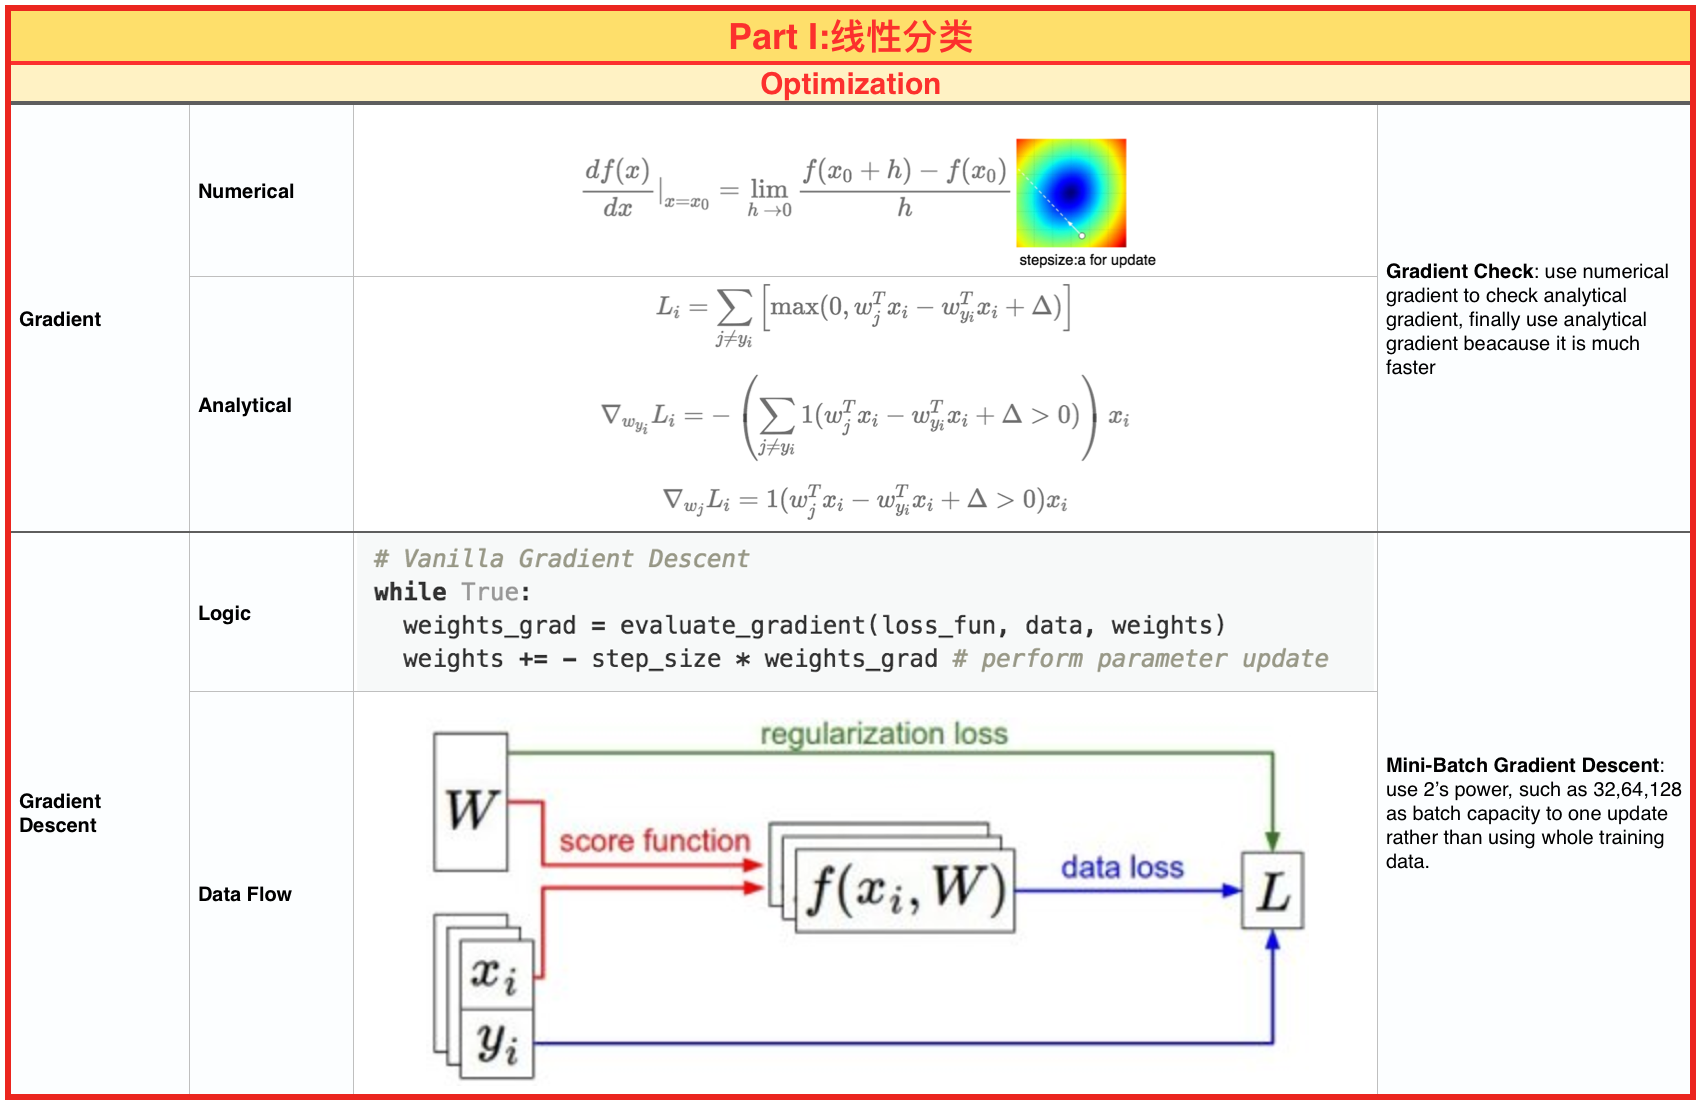
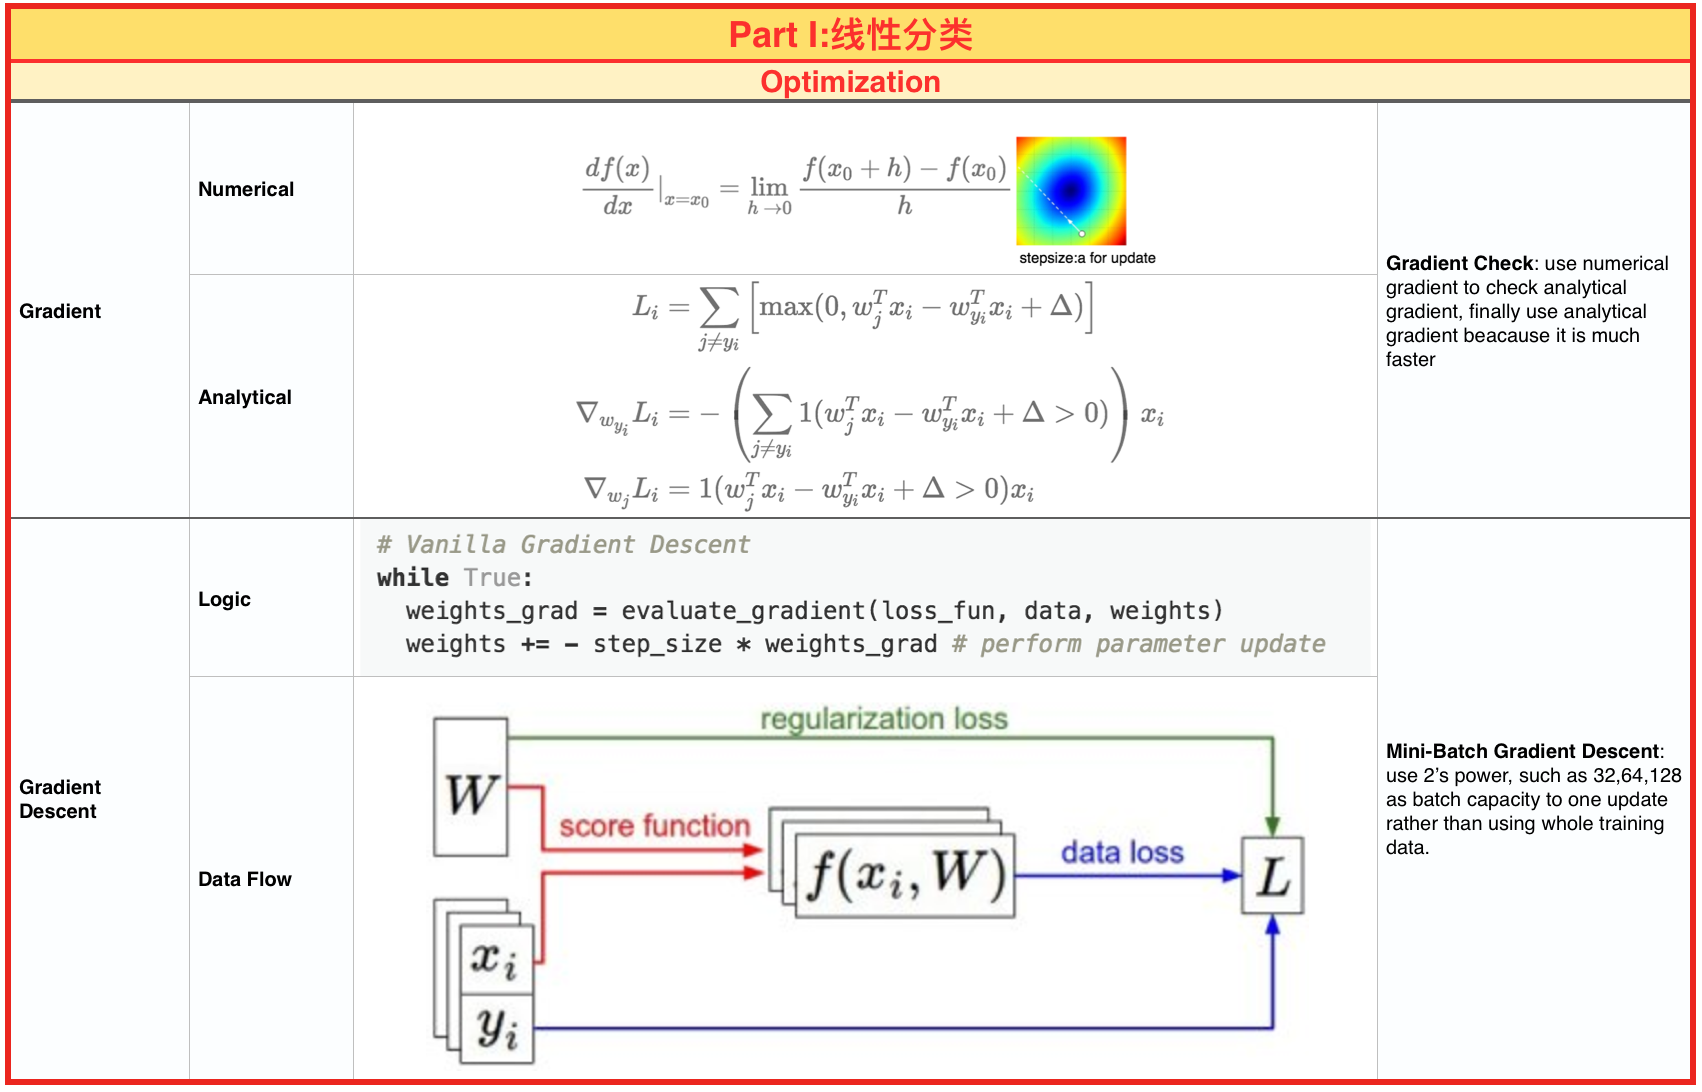
2015-06-04-CNN for Visual Recognition Part I：线性分类(四)：反向传播 finished

diff --git a/_posts/-07 Machine Learning/Neural Network/2015-06-04-CNN for Visual Recognition Part I：线性分类(四)：反向传播.md b/_posts/-07 Machine Learning/Neural Network/2015-06-04-CNN for Visual Recognition Part I：线性分类(四)：反向传播.md
@@ -18,62 +18,134 @@ shortinfo: 机器学习(Machine Learning)是通过非显性编程让计算机获
 ---
 {:.hr-short-left}
 
-## 1 Image Classification Introduction ##
+## 1 Backpropagation ##
 
-> **Image Classification**：给出1幅图片，在固定的标签(Label)中给出图片中对应物体的概率分布。这个任务定义看起来简单，实现起来却不容易。而且很多Computer Vision task最后都可化约为**Image Classification**问题。
+前文我们介绍了单个梯度的计算方法，本文在这基础上，介绍如何迭代使用链式原则来计算表达式的梯度，即**反向传播(Backpropagation)**。这对于我们理解，开发，设计和调试**Neural Networks**至关重要。
 
-**Image Classification**有如下几个主要难点：
+本文要探讨的主要问题如下。
 
-1. **视角变化(Viewpoint variation)**
+> 反向传播主要问题：给定某个函数$f(x)$，其中$x$是输入向量，我们如何计算$f$对$x$的梯度，即$\triangledown f(x)$。
 
-2. **大小变化(Scale variation)**
+该问题在神经网络下的应用是$f$对应loss function，$x$对应training set中的data $(x_i,y_i), i=1 \ldots N$，权重$W$和偏置$b$。由于training set中的data是固定的，因此我们一般只需要计算$W$和$b$的梯度来更新它们的值来减少loss。
 
-3. **变形(Deformation)**
+### 1.1 Introduction 
 
-4. **遮盖(Occlusion)**
+#### 1.1.1 Simple Interpreting the Gradient ###
 
-5. **光照变化(Illumination Conditions)**
+一些简单的梯度我们总结如下。
 
-6. **背景杂波(Background Clutter)**
+$$ \begin{align} 
+f(x,y) = x y \hspace{0.5in} & \rightarrow \hspace{0.5in} \frac{\partial f}{\partial x} = y \hspace{0.5in} \frac{\partial f}{\partial y} = x \\
 
-7. **类内变化(Intra-class Variation)**
+f(x,y) = x + y \hspace{0.5in} & \rightarrow \hspace{0.5in} \frac{\partial f}{\partial x} = 1 \hspace{0.5in} \frac{\partial f}{\partial y} = 1 \\
+
+f(x,y) = \max(x, y) \hspace{0.5in} & \rightarrow \hspace{0.5in} \frac{\partial f}{\partial x} = \mathbb{1}(x >= y) \hspace{0.5in} \frac{\partial f}{\partial y} = \mathbb{1}(y >= x) 
+
+\end{align} $$
+
+
+#### 1.1.2 Compound Expression, Chain Rule, Backpropagation ###
+
+复合表达式的梯度遵循链式原则。
+
+$$\begin{align}  
+f(x,y) = （x + y） \times z \hspace{0.5in} & \rightarrow \hspace{0.5in} \frac{\partial f}{\partial x} = \frac{\partial f}{\partial (x + y)} \times \frac{\partial (x + y)}{\partial x} = z \times 1 = z \\
+                                                                     & \rightarrow \hspace{0.5in} \frac{\partial f}{\partial y} = \frac{\partial f}{\partial (x + y)} \times \frac{\partial (x + y)}{\partial y} = z \times 1 = z \\
+                                                                     & \rightarrow \hspace{0.5in} \frac{\partial f}{\partial z} =  x + y \\
+\end{align} $$
 
 {: .img_middle_lg}
-![Image Classification Challenges](/assets/images/posts/07_Machine Learning/Convolutional Neural Network/2015-06-01-CNN for Visual Recognition Part I：入门(一)：图片分类/Image Classification Challenges.jpeg)
+![pixelspace](/assets/images/posts/07_Machine Learning/Convolutional Neural Network/2015-06-04-CNN for Visual Recognition Part I：线性分类(四)：反向传播/Chain Rule.png)
 
+### 1.2 Intuition ###
 
+> Backgroupagation is an elegant local process. The basic unit is gate. During forward pass, each gate's gradient, $\triangledown \frac {G_{out_i}}{G_{in_i}}$ and value ${G_{out_i}}$ is computed with knwon ${G_{in_i}}$. During backward pass, the previous computed gradient is chained by multiplication to calculate the final output's gradient on initial input, $\triangledown \frac {G_{out_N}}{G_{in_0}}$.
 
-### 1.1 Nearest Neighbor Classifier ###
+### 1.3 Best Practice###
 
-#### 1.1.1 k-Nearest Neighbor ####
+#### 1.3.1 Modularity: Sigmoid Example ####
 
-### 1.2 Train/Val/Test Split ###
+我们可以将多个gate模块化成1个gate，这里用1个**Sigmoid函数**举例。
 
-### 1.3 Pros/Cons of Nearest Neighbor ###
+{: .img_middle_lg}
+![pixelspace](/assets/images/posts/07_Machine Learning/Convolutional Neural Network/2015-06-04-CNN for Visual Recognition Part I：线性分类(四)：反向传播/Modular Gate.png)
+
+#### 1.3.2 Staged Computation ####
+
+下面这个形式只是用于练习利用中间值(Staged Value)来进行backpropagation。中间值使得我们的计算大大简化，而没有必要算出每一个微小gate的gradient。
+
+$$f(x,y) = \frac{x + \sigma(y)}{\sigma(x) + (x+y)^2}$$
+
+{% highlight py linenos %}
+x = 3 # example values
+y = -4
+
+# forward pass
+sigy = 1.0 / (1 + math.exp(-y)) # sigmoid in numerator   #(1)
+num = x + sigy # numerator                               #(2)
+sigx = 1.0 / (1 + math.exp(-x)) # sigmoid in denominator #(3)
+xpy = x + y                                              #(4)
+xpysqr = xpy**2                                          #(5)
+den = sigx + xpysqr # denominator                        #(6)
+invden = 1.0 / den                                       #(7)
+f = num * invden # done!                                 #(8)
+
+# backprop f = num * invden
+dnum = invden # gradient on numerator                             #(8)
+dinvden = num                                                     #(8)
+# backprop invden = 1.0 / den 
+dden = (-1.0 / (den**2)) * dinvden                                #(7)
+# backprop den = sigx + xpysqr
+dsigx = (1) * dden                                                #(6)
+dxpysqr = (1) * dden                                              #(6)
+# backprop xpysqr = xpy**2
+dxpy = (2 * xpy) * dxpysqr                                        #(5)
+# backprop xpy = x + y
+dx = (1) * dxpy                                                   #(4)
+dy = (1) * dxpy                                                   #(4)
+# backprop sigx = 1.0 / (1 + math.exp(-x))
+dx += ((1 - sigx) * sigx) * dsigx # Notice += !!                  #(3)
+# backprop num = x + sigy
+dx += (1) * dnum                                                  #(2)
+#This follows the multivariable chain rule in Calculus, which states that if a variable branches out to different parts of the circuit, then the gradients that flow back to it will add
+
+dsigy = (1) * dnum                                                #(2)
+# backprop sigy = 1.0 / (1 + math.exp(-y))
+dy += ((1 - sigy) * sigy) * dsigy                                 #(1)
+# done! phew
+
+{% endhighlight %}
+
+### 1.4 Patterns in Backward Flow ###
+
+{: .img_middle_lg}
+![pixelspace](/assets/images/posts/07_Machine Learning/Convolutional Neural Network/2015-06-04-CNN for Visual Recognition Part I：线性分类(四)：反向传播/Gate Patterns.png)
+
+### 1.5 Gradients for Vectorized Operations ###
+
+前面我们考虑的都是单变量，但是相关概念可以smooth地扩展到多变量(矩阵)。
+
+{% highlight py linenos %}
+
+# forward pass
+W = np.random.randn(5, 10)
+X = np.random.randn(10, 3)
+D = W.dot(X)
+
+# now suppose we had the gradient on D from above in the circuit
+dD = np.random.randn(*D.shape) # same shape as D
+dW = dD.dot(X.T) #.T gives the transpose of the matrix
+dX = W.T.dot(dD)
+
+{% endhighlight %}
 
 ## 2 Summary ##
 
-### 2.1 ###
-
-### 2.2 Applying kNN in practice ###
-
-{: .img_middle_lg}
-![Image Classification Challenges](/assets/images/posts/07_Machine Learning/Convolutional Neural Network/2015-06-01-CNN for Visual Recognition Part I：入门(一)：图片分类/Image Classification Challenges.jpeg)
-
-repeat until convergence：
-
-$$
-\theta_0 := \theta_0 - \alpha \frac 1 m \sum_{i=1}^m[h_\theta(x^{(i)})-y^{(i)}]
-$$
+{: .img_middle_hg}
+![pixelspace](/assets/images/posts/07_Machine Learning/Convolutional Neural Network/2015-06-04-CNN for Visual Recognition Part I：线性分类(四)：反向传播/线性分类Summary.png)
 
 
-$$
-\theta_1 := \theta_1 - \alpha \frac 1 m \sum_{i=1}^m \lbrace[h_\theta(x^{(i)})-y^{(i)}]x^{(i)}\rbrace
-$$
-
-
-
-## 6 参考资料 ##
+## 3 参考资料 ##
 - ["CS231n: Convolutional Neural Networks for Visual Recognition"](http://cs231n.stanford.edu/);
 - ["CS231n Course Video 2016 Winter"](https://www.youtube.com/watch?v=g-PvXUjD6qg&index=1&list=PLIUoqCcJd2BjsI11qafvMWv_UqiH1Wu3Q);
 - ["Deep Learning"](http://www.deeplearningbook.org/);

diff --git a/_posts/-07 Machine Learning/Neural Network/2015-06-03-CNN for Visual Recognition Part I：线性分类(三)：优化(梯度下降).md b/_posts/-07 Machine Learning/Neural Network/2015-06-03-CNN for Visual Recognition Part I：线性分类(三)：优化(梯度下降).md
@@ -149,11 +149,14 @@ stepsize的选择需要小心对待，调小了update不够有效，太大了可
 对于SVM的损失函数，解析梯度是如下形式：
 
 
-$$L_i = \sum_{j\neq y_i} \left[ \max(0, w_j^Tx_i - w_{y_i}^Tx_i + \Delta) \right]$$
+$$ \begin{align} 
+L_i & = \sum_{j\neq y_i} \left[ \max(0, w_j^Tx_i - w_{y_i}^Tx_i + \Delta) \right] \\
 
-$$\nabla_{w_{y_i}} L_i = - \left( \sum_{j\neq y_i} \mathbb{1}(w_j^Tx_i - w_{y_i}^Tx_i + \Delta > 0) \right) x_i$$
+\nabla_{w_{y_i}} L_i & = - \left( \sum_{j\neq y_i} \mathbb{1}(w_j^Tx_i - w_{y_i}^Tx_i + \Delta > 0) \right) x_i \\
 
-$$\nabla_{w_j} L_i = \mathbb{1}(w_j^Tx_i - w_{y_i}^Tx_i + \Delta > 0) x_i$$
+\nabla_{w_j} L_i & = \mathbb{1}(w_j^Tx_i - w_{y_i}^Tx_i + \Delta > 0) x_i 
+
+\end{align} $$
 
 ### 1.4 Gradient Descent ###
 
